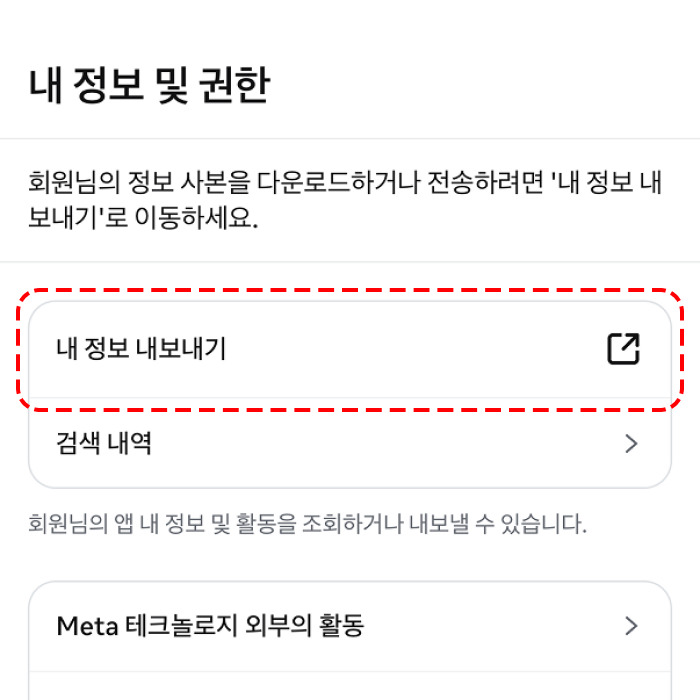
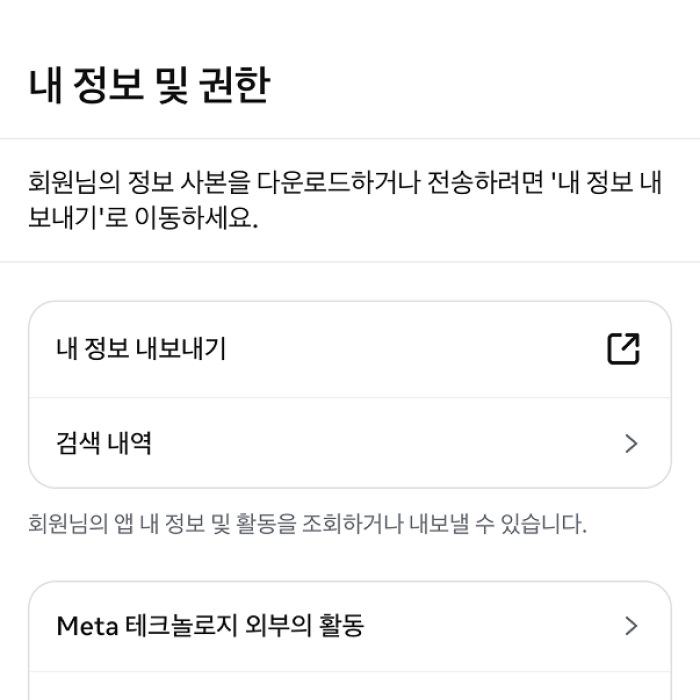
가이드 이미지 교체 및 전체 스텝 하이라이트 Glow 애니메이션 적용 (1~7)

Changed region(s): [[0.03, 0.42, 0.99, 0.6], [0.03, 0.39, 0.96, 0.42], [0.0, 0.42, 0.03, 0.57]]

diff --git a/index.html b/index.html
@@ -53,6 +53,7 @@ https://github.com/nodeca/pako/blob/main/LICENSE
   .step{background:var(--card); border-radius:16px; padding:16px; margin-bottom:11px;}
   .step-img-wrap{margin-top:12px; border-radius:12px; overflow:visible; width:100%; aspect-ratio:1/1; position:relative; background:var(--card2);}
   .hl-overlay{position:absolute; border-radius:6px; pointer-events:none; animation:hl-glow 1.6s ease-in-out infinite;}
+  .hl-underline{position:absolute; pointer-events:none; border-bottom:2px solid #FF2424;}
   @keyframes hl-glow{
     0%,100%{box-shadow:inset 0 0 0 2px #FF2424, 0 0 0 0 rgba(255,36,36,0);}
     50%{box-shadow:inset 0 0 0 2px #FF2424, 0 0 10px 4px rgba(255,36,36,0.4);}
@@ -265,7 +266,7 @@ https://github.com/nodeca/pako/blob/main/LICENSE
           <div class="tag" id="gtag-1"></div>
           <b id="step1-title" style="display:block;font-size:20px;font-weight:800;color:var(--txt);margin-bottom:10px;"></b>
           <span id="step1-desc" style="display:block;color:var(--sub);font-size:14px;line-height:1.6;margin-bottom:16px;"></span>
-          <div class="step-img-wrap"><img id="step1-img" class="step-img" src="guide/kr/1.jpg" alt="step1"/><div id="step1-ph" class="step-img-ph hidden">📸 이미지 준비 중</div><div class="hl-overlay" style="left:2.29%;top:36.57%;width:95.43%;height:16.57%;"></div></div>
+          <div class="step-img-wrap"><img id="step1-img" class="step-img" src="guide/kr/1.jpg" alt="step1"/><div id="step1-ph" class="step-img-ph hidden">📸 이미지 준비 중</div><div class="hl-overlay" style="left:2.29%;top:37.71%;width:95.43%;height:14%;"></div></div>
           <a id="step1-link" href="#" onclick="openExternal('https://accountscenter.instagram.com/');return false;" style="display:block;margin-top:16px;padding:14px;background:var(--card2);border:1px solid var(--line);border-radius:14px;text-align:center;color:var(--txt);font-size:14px;font-weight:600;text-decoration:none;"></a>
         </div>
         <!-- STEP 2 -->
@@ -273,7 +274,7 @@ https://github.com/nodeca/pako/blob/main/LICENSE
           <div class="tag" id="gtag-2"></div>
           <b id="step2-title" style="display:block;font-size:20px;font-weight:800;color:var(--txt);margin-bottom:10px;"></b>
           <span id="step2-desc" style="display:block;color:var(--sub);font-size:14px;line-height:1.6;margin-bottom:16px;"></span>
-          <div class="step-img-wrap"><img id="step2-img" class="step-img" src="guide/kr/2.jpg" alt="step2"/><div id="step2-ph" class="step-img-ph hidden">📸 이미지 준비 중</div></div>
+          <div class="step-img-wrap"><img id="step2-img" class="step-img" src="guide/kr/2.jpg" alt="step2"/><div id="step2-ph" class="step-img-ph hidden">📸 이미지 준비 중</div><div class="hl-overlay" style="left:4%;top:76.29%;width:92%;height:12.86%;"></div></div>
           <a id="step2-link" href="#" onclick="openExternal('https://accountscenter.instagram.com/info_and_permissions/');return false;" style="display:block;margin-top:16px;padding:14px;background:var(--card2);border:1px solid var(--line);border-radius:14px;text-align:center;color:var(--txt);font-size:14px;font-weight:600;text-decoration:none;"></a>
         </div>
         <!-- STEP 3 -->
@@ -281,35 +282,35 @@ https://github.com/nodeca/pako/blob/main/LICENSE
           <div class="tag" id="gtag-3"></div>
           <b id="step3-title" style="display:block;font-size:20px;font-weight:800;color:var(--txt);margin-bottom:10px;"></b>
           <span id="step3-desc" style="display:block;color:var(--sub);font-size:14px;line-height:1.6;margin-bottom:16px;"></span>
-          <div class="step-img-wrap"><img id="step3-img" class="step-img" src="guide/kr/3.jpg" alt="step3"/><div id="step3-ph" class="step-img-ph hidden">📸 이미지 준비 중</div></div>
+          <div class="step-img-wrap"><img id="step3-img" class="step-img" src="guide/kr/3.jpg" alt="step3"/><div id="step3-ph" class="step-img-ph hidden">📸 이미지 준비 중</div><div class="hl-overlay" style="left:3.71%;top:42.86%;width:92.57%;height:14.57%;"></div></div>
         </div>
         <!-- STEP 4 -->
         <div class="guide-slide">
           <div class="tag" id="gtag-4"></div>
           <b id="step4-title" style="display:block;font-size:20px;font-weight:800;color:var(--txt);margin-bottom:10px;"></b>
           <span id="step4-desc" style="display:block;color:var(--sub);font-size:14px;line-height:1.6;margin-bottom:16px;"></span>
-          <div class="step-img-wrap"><img id="step4-img" class="step-img" src="guide/kr/4.jpg" alt="step4"/><div id="step4-ph" class="step-img-ph hidden">📸 이미지 준비 중</div></div>
+          <div class="step-img-wrap"><img id="step4-img" class="step-img" src="guide/kr/4.jpg" alt="step4"/><div id="step4-ph" class="step-img-ph hidden">📸 이미지 준비 중</div><div class="hl-overlay" style="left:3.43%;top:42.86%;width:93.14%;height:14.86%;"></div></div>
         </div>
         <!-- STEP 5 -->
         <div class="guide-slide">
           <div class="tag" id="gtag-5"></div>
           <b id="step5-title" style="display:block;font-size:20px;font-weight:800;color:var(--txt);margin-bottom:10px;"></b>
           <span id="step5-desc" style="display:block;color:var(--sub);font-size:14px;line-height:1.6;margin-bottom:16px;"></span>
-          <div class="step-img-wrap"><img id="step5-img" class="step-img" src="guide/kr/5.jpg" alt="step5"/><div id="step5-ph" class="step-img-ph hidden">📸 이미지 준비 중</div></div>
+          <div class="step-img-wrap"><img id="step5-img" class="step-img" src="guide/kr/5.jpg" alt="step5"/><div id="step5-ph" class="step-img-ph hidden">📸 이미지 준비 중</div><div class="hl-overlay" style="left:4.86%;top:34.29%;width:90.29%;height:16.57%;"></div></div>
         </div>
         <!-- STEP 6 -->
         <div class="guide-slide">
           <div class="tag" id="gtag-6"></div>
           <b id="step6-title" style="display:block;font-size:20px;font-weight:800;color:var(--txt);margin-bottom:10px;"></b>
           <span id="step6-desc" style="display:block;color:var(--sub);font-size:14px;line-height:1.6;margin-bottom:16px;"></span>
-          <div class="step-img-wrap"><img id="step6-img" class="step-img" src="guide/kr/6.jpg" alt="step6"/><div id="step6-ph" class="step-img-ph hidden">📸 이미지 준비 중</div></div>
+          <div class="step-img-wrap"><img id="step6-img" class="step-img" src="guide/kr/6.jpg" alt="step6"/><div id="step6-ph" class="step-img-ph hidden">📸 이미지 준비 중</div><div class="hl-overlay" style="left:4.57%;top:31.14%;width:90.86%;height:14%;"></div></div>
         </div>
         <!-- STEP 7 -->
         <div class="guide-slide">
           <div class="tag" id="gtag-7"></div>
           <b id="step7-title" style="display:block;font-size:20px;font-weight:800;color:var(--txt);margin-bottom:10px;"></b>
           <span id="step7-desc" style="display:block;color:var(--sub);font-size:14px;line-height:1.6;margin-bottom:16px;"></span>
-          <div class="step-img-wrap"><img id="step7-img" class="step-img" src="guide/kr/7.jpg" alt="step7"/><div id="step7-ph" class="step-img-ph hidden">📸 이미지 준비 중</div></div>
+          <div class="step-img-wrap"><img id="step7-img" class="step-img" src="guide/kr/7.jpg" alt="step7"/><div id="step7-ph" class="step-img-ph hidden">📸 이미지 준비 중</div><div class="hl-underline" style="left:22.14%;top:12.57%;width:24%;height:32%;"></div><div class="hl-overlay" style="left:3.43%;top:82%;width:93.14%;height:15.14%;"></div></div>
           <div class="note warn" style="margin-top:16px;"><span>⚠</span><div id="guide-warn"></div></div>
         </div>
       </div>
